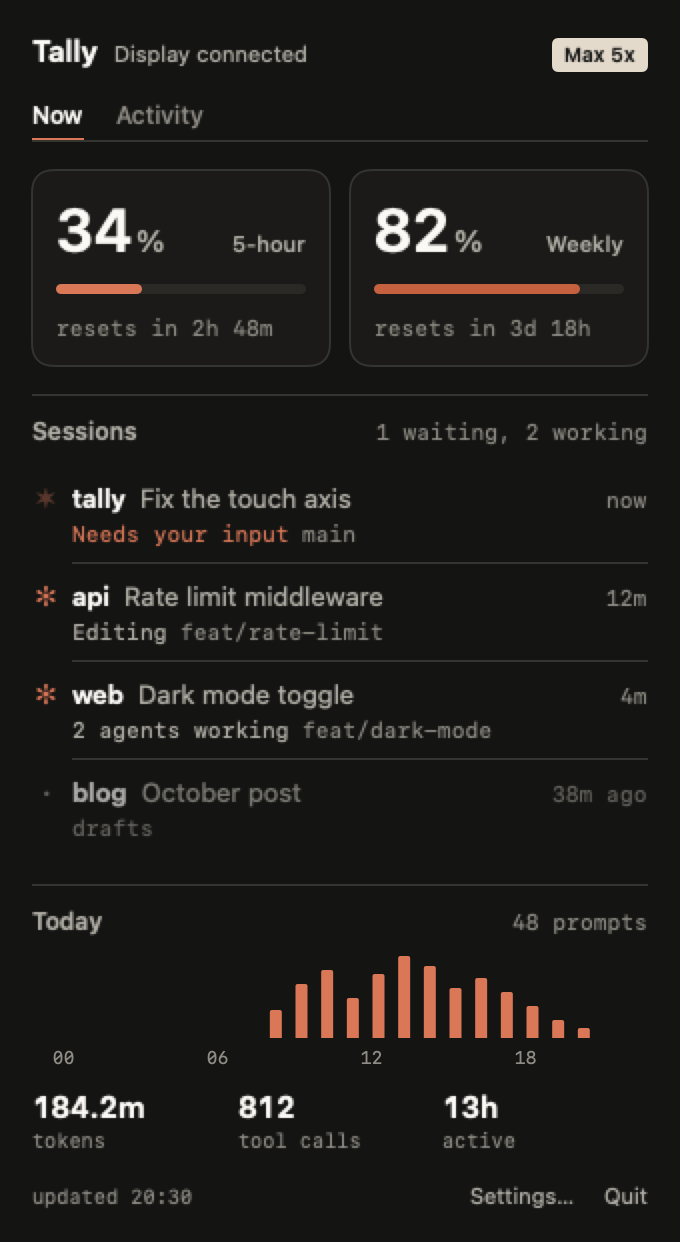
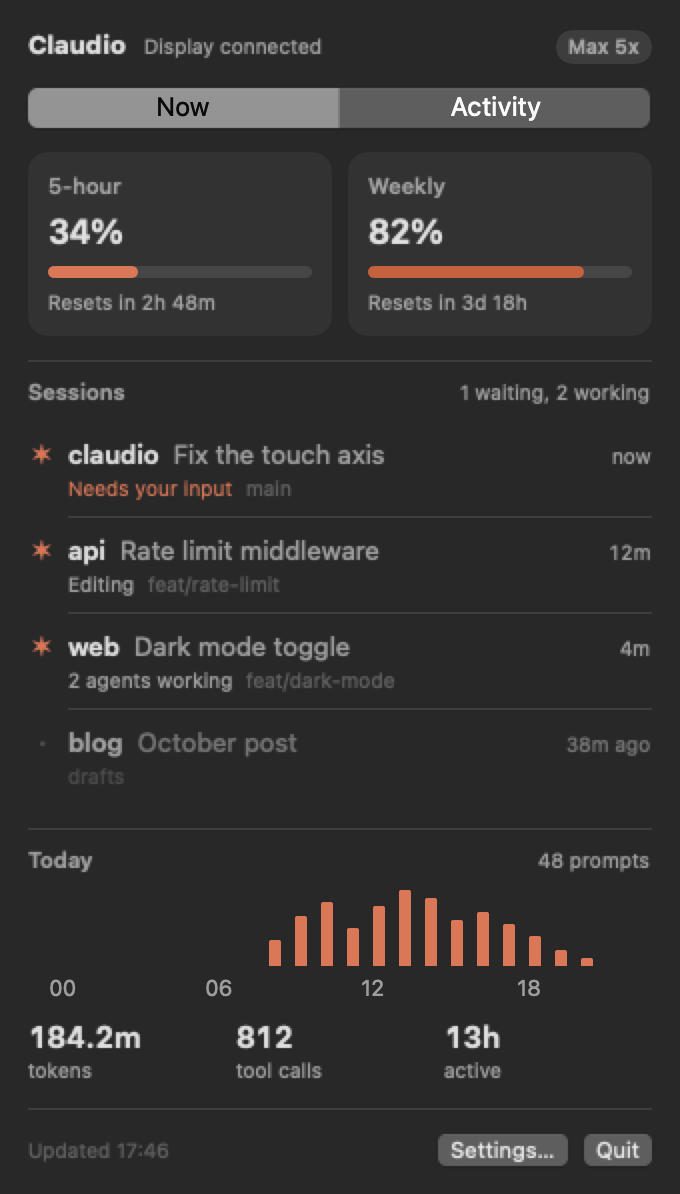
docs: reorganize the README around getting started

diff --git a/README.md b/README.md
@@ -1,118 +1,102 @@
 <div align="center">
   <img src="assets/readme/waving.gif" width="96" alt="">
   <h1>Claudio</h1>
-  <p>A desk display for <strong>Claude Code</strong>. Usage limits, every open session and what it's doing, today's activity and six months of history, on a small AMOLED next to the keyboard.</p>
+  <p>A desk display for <strong>Claude Code</strong>: usage limits, every open session and what it's doing, today's activity and six months of history, on a small AMOLED next to the keyboard.</p>
   <p><sub>Claudio is a common Brazilian name, and a joke on Claude.</sub></p>
 
+  [![release](https://img.shields.io/github/v/release/eduardoborges/claudio)](https://github.com/eduardoborges/claudio/releases/latest)
   [![last commit](https://img.shields.io/github/last-commit/eduardoborges/claudio)](https://github.com/eduardoborges/claudio/commits/main)
-  [![board](https://img.shields.io/badge/board-ESP32--S3%20AMOLED%202.16-D97757)](#hardware)
+  [![board](https://img.shields.io/badge/board-ESP32--S3%20AMOLED%202.16-D97757)](#what-you-need)
 </div>
 
 ---
 
-**[Screens](#screens)** · **[Install](#install)** · **[Hooks](#claude-code-hooks)** · **[Settings](#settings)** · **[Protocol](#ble-protocol)**
-
-> This started as a fork of [HermannBjorgvin/Clawdmeter](https://github.com/HermannBjorgvin/Clawdmeter), went by the same name, and split off before its v2. Upstream rewrote the host side as a Rust app. This one has a native Mac app, keeps the small daemons for Linux and Windows, and puts the work into what the device shows. The two projects no longer share code or releases.
+**[Quick start](#quick-start)** · **[What it shows](#what-it-shows)** · **[Settings](#settings)** · **[Linux and Windows](#linux-and-windows)** · **[How it works](#how-it-works)** · **[Development](#development)**
 
 | Sessions | Usage | Today | Stats |
 | :-: | :-: | :-: | :-: |
 | ![Sessions](screenshots/sessions.png) | ![Usage](screenshots/usage.png) | ![Today](screenshots/today.png) | ![Stats](screenshots/stats.png) |
 
-## Screens
+## What you need
 
-The device starts on Sessions. Swipe sideways or tap the left button to move between the four workspaces, and tap the screen to flip to the splash and back.
+- **The display.** A [Waveshare ESP32-S3-Touch-AMOLED-2.16](https://www.waveshare.com/esp32-s3-touch-amoled-2.16.htm), the board I build and test on. [Six more Waveshare boards](#other-boards) build too, but I haven't checked the current screens on them.
+- **A computer to feed it.** The Mac app needs macOS 14 or later on Apple silicon. Linux and Windows run a small daemon instead.
+- **Claude Code**, logged in to a paid plan.
 
-### Sessions
+## Quick start
 
-One row per open Claude Code session. The first line has the project folder and the session's title (the one Claude Code generates, or yours after `/rename`), plus how long it has been working or how long ago it finished. The second line has the git branch and what the session is doing: `Editing`, `Running`, `Searching`, `2 agents working`, or `Needs your input` in orange.
-
-Sessions that need you go on top, then the ones working, then the finished ones. A working row stays where it is until you send that session a new prompt, so the list doesn't reshuffle every time a tool runs. If there are more sessions than the screen fits, every row drops to one line and the last one reads `+3 more`. Two thin bars above the list keep the 5-hour and weekly usage in view.
-
-The list needs the [hooks](#claude-code-hooks).
-
-### Usage
-
-The 5-hour session and the weekly limit, each with the time left until it resets, and a pill with your plan. Enterprise accounts get their spend against the billing period instead.
-
-### Today
-
-Messages per hour since midnight, with prompts, tool calls, tokens, sessions, the busiest project and the number of active hours. The daemon reads the transcripts in `~/.claude/projects`, counts the main conversation only and refreshes at most once a minute.
-
-### Stats
-
-A heatmap of the last 26 weeks and six numbers under it: sessions, total tokens, active days, the longest and current streak, and your favorite model. It comes from `~/.claude/stats-cache.json`, the file behind `/stats`, so it's as fresh as Claude Code last left it.
-
-### When a session needs you
-
-<img src="screenshots/alert.png" width="240" align="right" alt="Clawd pointing at a session that needs input">
-
-When Claude Code asks a question or wants a permission, Clawd walks onto the screen, waves, points, and the message scrolls along the bottom. He leaves when you tap the screen, when the session moves on, or after two minutes. When a task that ran for at least five minutes finishes, he comes back to dance.
-
-While sessions work, the small Clawd in the corner acts out the newest one: he types on a laptop during edits and shell commands, holds a magnifier while Claude reads or searches, and rides a cloud while it thinks.
-
-The splash plays Anthropic's official Clawd animations. They get busier as your usage climbs.
-
-<br clear="right">
-
-## Hardware
-
-I built it on the [Waveshare ESP32-S3-Touch-AMOLED-2.16](https://www.waveshare.com/esp32-s3-touch-amoled-2.16.htm), a 480×480 AMOLED with touch, a battery connector and three side buttons. It's the only board I test on.
-
-The firmware also builds for these boards, but I haven't checked the current screens on them:
-
-| Board | Env |
-| --- | --- |
-| Waveshare ESP32-C6-Touch-AMOLED-2.16 | `waveshare_amoled_216_c6` |
-| Waveshare ESP32-S3-Touch-AMOLED-1.8 | `waveshare_amoled_18` |
-| Waveshare ESP32-C6-Touch-AMOLED-1.8 | `waveshare_amoled_18_c6` |
-| Waveshare ESP32-S3-Touch-AMOLED-2.06 | `waveshare_amoled_206` |
-| Waveshare ESP32-S3-Touch-LCD-1.54 | `waveshare_lcd_154` |
-| Waveshare ESP32-S3-Touch-LCD-4 | `waveshare_lcd_4` |
-
-Each board is a folder under `firmware/src/boards/` plus a PlatformIO env. [`docs/porting/adding-a-board.md`](docs/porting/adding-a-board.md) walks through adding one.
-
-## Install
-
-You need the [PlatformIO CLI](https://docs.platformio.org/en/latest/core/installation/index.html), `python3` and Claude Code logged in to a paid plan.
-
-### macOS
-
-Claudio.app lives in the menu bar and does the daemon's job: it reads the token, polls usage and keeps the display fed over Bluetooth. Click its icon for usage, sessions and today's activity, or open Settings for the options below and for flashing the firmware.
-
-<img src="screenshots/mac-now.png" width="300" alt="The menu bar panel with usage, sessions and today's activity"> <img src="screenshots/mac-activity.png" width="300" alt="The Activity tab with the 26-week heatmap">
-
-Install it with Homebrew:
+On a Mac:
 
 ```sh
 brew install --cask eduardoborges/tap/claudio
 ```
 
-Or build it from the repo with Xcode's command line tools:
+Open Claudio. A welcome guide walks you through the rest:
 
-```sh
-mac/build.sh                          # builds and signs mac/build/Claudio.app
-cp -R mac/build/Claudio.app /Applications/
-open /Applications/Claudio.app
-```
+1. **Flash** the display over USB with the latest firmware release. Flashing keeps the pairing and the display's settings.
+2. **Pair** it once in System Settings → Bluetooth (Connect next to "Claudio"), and allow Bluetooth when macOS asks.
+3. **Install the hooks** that feed sessions and alerts. Claudio adds its own to `~/.claude/settings.json`, leaves yours alone and backs up the file first.
+4. **Turn on Open at login.**
 
-Pair the display once in System Settings → Bluetooth (Connect next to "Claudio"). macOS asks for Bluetooth permission on the first launch. Then turn on Open Claudio at login in Settings. The token comes from the Keychain entry Claude Code already keeps.
+Claudio reads the token from the Keychain entry Claude Code already keeps. It lives in the menu bar: click Clawd for usage, sessions and today's activity, or open Settings for everything else, including the welcome guide again.
 
-To flash the firmware, plug the display in over USB, open Settings → Firmware, pick the board and flash the latest release or a zip from `tools/package_firmware.py`. Flashing keeps the Bluetooth pairing and the display's settings. It needs esptool, from `brew install esptool` or PlatformIO.
+<img src="screenshots/mac-now.png" width="300" alt="The menu bar panel with usage, sessions and today's activity"> <img src="screenshots/mac-activity.png" width="300" alt="The Activity tab with the 26-week heatmap">
 
 The app logs to `~/Library/Logs/Claudio.log`.
 
-#### The Python daemon instead
+## What it shows
 
-The Python daemon still works and runs from a LaunchAgent. Don't run it next to the app: both would write to the display.
+The display starts on Sessions. Swipe sideways or tap the left button to move between the four workspaces, and tap the screen to flip to the splash and back.
 
-```sh
-./flash-mac.sh waveshare_amoled_216   # finds /dev/cu.usbmodem* on its own
-./install-mac.sh                      # venv with bleak and httpx, a LaunchAgent, a few questions
-tail -F ~/Library/Logs/claude-usage-daemon.out.log
-launchctl unload -w ~/Library/LaunchAgents/com.user.claude-usage-daemon.plist   # stop for good
-```
+**Sessions.** One row per open Claude Code session: the project folder and title (Claude Code's, or yours after `/rename`), how long it has been working or how long ago it finished, the git branch, and what it's doing: `Editing`, `Running`, `Searching`, `2 agents working`, or `Needs your input` in orange. Sessions that need you go on top, then the working ones, then the finished ones. A working row stays put until you send that session a new prompt, so the list doesn't reshuffle every time a tool runs. When the rows don't fit, each drops to one line and the last reads `+3 more`. Two thin bars above the list keep the 5-hour and weekly usage in view.
 
-### Linux
+**Usage.** The 5-hour and weekly limits, each with the time left until it resets, and a pill with your plan. Enterprise accounts see their spend against the billing period.
+
+**Today.** Messages per hour since midnight, with prompts, tool calls, tokens, sessions, the busiest project and active hours. It counts the main conversation in the transcripts under `~/.claude/projects` and refreshes at most once a minute.
+
+**Stats.** A 26-week heatmap and six numbers under it: sessions, total tokens, active days, the longest and current streak, and your favorite model. It reads `~/.claude/stats-cache.json`, the file behind `/stats`, so it's as fresh as Claude Code last left it.
+
+### Clawd
+
+<img src="screenshots/alert.png" width="240" align="right" alt="Clawd pointing at a session that needs input">
+
+When Claude Code asks a question or wants a permission, Clawd walks onto the screen, waves, points, and the message scrolls along the bottom. He leaves when you tap the screen, when the session moves on, or after two minutes. When a task that ran for five minutes or more finishes, he comes back to dance.
+
+While sessions work, the small Clawd in the corner acts out the newest one: he types on a laptop during edits and shell commands, holds a magnifier while Claude reads or searches, and rides a cloud while it thinks. The splash plays Anthropic's official Clawd animations, which get busier as your usage climbs.
+
+<br clear="right">
+
+### Buttons
+
+| Button | What it does |
+| --- | --- |
+| Left (BOOT) | Tap for the next workspace. Hold to send Space, Claude Code's push to talk |
+| Middle (PWR) | On the splash, the next animation. Hold 3 seconds and let go for pairing mode |
+| Right | Shift+Tab, Claude Code's mode toggle |
+
+The keys go out as a Bluetooth keyboard, so they land in whatever window has focus. Not every board has all three buttons. To pair again, hold the power button for 3 seconds and let go: the display forgets its bond and starts advertising.
+
+## Settings
+
+On a Mac, Claudio's Settings window edits all of these. Elsewhere, edit `~/.config/claude-usage-monitor/config`; the daemon rereads it on every poll, and [`daemon/config.example`](daemon/config.example) documents each key.
+
+| Key | Default | What it does |
+| --- | --- | --- |
+| `beep` | `off` | Beep on alerts and celebrations |
+| `chime` | `off` | Chime when the 5-hour limit resets |
+| `done_after` | `5` | Minutes a task has to run to earn a celebration. `0` turns it off |
+| `clock` | `off` | Show the time in place of the workspace title: `auto`, `12` or `24` |
+| `config_dirs` | `~/.claude` | Several Claude config folders, comma separated. The display shows the one in use |
+| `poll_interval` | `60` | Seconds between usage checks. Linux only, the Mac app polls every minute |
+| `heartbeat_interval` | `60` | Seconds between replays of the last reading. Linux only |
+| `menubar_usage` | `on` | Show the 5-hour usage next to the menu bar icon. Mac app only |
+| `board` | `waveshare_amoled_216` | The board the Mac app's Firmware settings flash. Mac app only |
+
+The chime and the beep play on boards with a speaker: the S3 AMOLED-2.16 and 1.8, and the LCD-1.54.
+
+## Linux and Windows
+
+On Linux, a bash daemon does the Mac app's job. Flashing goes through the [PlatformIO CLI](https://docs.platformio.org/en/latest/core/installation/index.html):
 
 ```sh
 ./flash.sh waveshare_amoled_216      # defaults to /dev/ttyACM0
@@ -122,19 +106,16 @@ bluetoothctl pair <MAC> && bluetoothctl trust <MAC>
 systemctl --user start claude-usage-daemon
 ```
 
-The Linux daemon is a bash script. It needs BlueZ (`bluetoothctl`, `busctl`, `dbus-monitor`), `curl`, `setsid`, `stdbuf` and a systemd user session. Logs: `journalctl --user -u claude-usage-daemon -f`.
+The daemon needs BlueZ (`bluetoothctl`, `busctl`, `dbus-monitor`), `curl`, `setsid`, `stdbuf` and a systemd user session. Logs: `journalctl --user -u claude-usage-daemon -f`. Then [set up the hooks by hand](#hooks-by-hand).
 
-### Windows
+The Windows daemon shows usage only. Sessions, Today, Stats, alerts and celebrations need the Mac app or the Linux daemon. Setup is in [`daemon/README-windows.md`](daemon/README-windows.md).
 
-The Windows daemon only shows usage. Sessions, Today, Stats, alerts and celebrations need the macOS or Linux daemon. Setup is in [`daemon/README-windows.md`](daemon/README-windows.md).
+### Hooks by hand
 
-### Pairing again
+<details>
+<summary>The hooks the Mac app installs for you, for Linux and Windows</summary>
 
-Hold the power button for 3 seconds and let go. The device forgets its bond and starts advertising again.
-
-## Claude Code hooks
-
-Sessions, alerts, the corner Clawd and the celebrations all come from Claude Code hooks. Claudio.app installs them from the welcome guide or Settings → Hooks: it replaces any `attention-hook.sh` entries with its own, leaves your other hooks alone and backs up the file to `~/.config/claude-usage-monitor/claude-settings.backup.json`. The script needs `jq`, which the Homebrew cask pulls in. Without the app (Linux, Windows), merge these into `~/.claude/settings.json` and point the path at your checkout (`brew install jq` or `sudo apt install jq` if it's missing).
+Merge these into `~/.claude/settings.json` and point the path at your checkout. The script needs `jq` (`brew install jq` or `sudo apt install jq`). Claude Code picks up hook changes without a restart.
 
 ```json
 {
@@ -178,83 +159,56 @@ Sessions, alerts, the corner Clawd and the celebrations all come from Claude Cod
 | `SubagentStop` | The `2 agents working` count. Without it, a finished agent keeps counting for up to 10 minutes |
 | `SessionEnd` | Taking closed sessions off the list. Without it, they stay for up to six hours |
 
-Claude Code picks up hook changes without a restart. Each hook call records the session's folder, branch, title and last tool in `~/.config/claude-usage-monitor/sessions/`, and the daemon builds the list from those files.
+</details>
 
-## Settings
+### The Python daemon on a Mac
 
-The daemon reads `~/.config/claude-usage-monitor/config` on every poll, so edits apply within a minute. [`daemon/config.example`](daemon/config.example) has every option with comments.
+<details>
+<summary>The daemon from before the app</summary>
 
-| Key | Default | What it does |
-| --- | --- | --- |
-| `beep` | `off` | Beep on alerts and celebrations |
-| `chime` | `off` | Chime when the 5-hour limit resets |
-| `done_after` | `5` | Minutes a task has to run to earn a celebration. `0` turns it off |
-| `clock` | `off` | Show the time in place of the workspace title: `auto`, `12` or `24` |
-| `config_dirs` | `~/.claude` | Several Claude config folders, comma separated. The device shows the one in use |
-| `poll_interval` | `60` | Seconds between usage checks. Linux only, macOS polls every minute |
-| `heartbeat_interval` | `60` | Seconds between replays of the last reading. Linux only |
-| `menubar_usage` | `on` | Show the 5-hour usage next to the menu bar icon. Mac app only |
-| `board` | `waveshare_amoled_216` | The board the Mac app's Firmware settings flash. Mac app only |
+It still works and runs from a LaunchAgent. Don't run it next to the app: both would write to the display.
 
-The chime and the beep play on boards with a speaker: the S3 AMOLED-2.16 and 1.8, and the LCD-1.54.
+```sh
+./flash-mac.sh waveshare_amoled_216   # finds /dev/cu.usbmodem* on its own
+./install-mac.sh                      # venv with bleak and httpx, a LaunchAgent, a few questions
+tail -F ~/Library/Logs/claude-usage-daemon.out.log
+launchctl unload -w ~/Library/LaunchAgents/com.user.claude-usage-daemon.plist   # stop for good
+```
 
-## Buttons
+</details>
 
-| Button | What it does |
+## Other boards
+
+The firmware also builds for these boards, but I haven't checked the current screens on them:
+
+| Board | Env |
 | --- | --- |
-| Left (BOOT) | Tap for the next workspace. Hold to send Space, Claude Code's push to talk |
-| Middle (PWR) | On the splash, the next animation. Hold 3 seconds and let go for pairing mode |
-| Right | Shift+Tab, Claude Code's mode toggle |
+| Waveshare ESP32-C6-Touch-AMOLED-2.16 | `waveshare_amoled_216_c6` |
+| Waveshare ESP32-S3-Touch-AMOLED-1.8 | `waveshare_amoled_18` |
+| Waveshare ESP32-C6-Touch-AMOLED-1.8 | `waveshare_amoled_18_c6` |
+| Waveshare ESP32-S3-Touch-AMOLED-2.06 | `waveshare_amoled_206` |
+| Waveshare ESP32-S3-Touch-LCD-1.54 | `waveshare_lcd_154` |
+| Waveshare ESP32-S3-Touch-LCD-4 | `waveshare_lcd_4` |
 
-The keys go out as a Bluetooth keyboard, so they land in whatever window has focus. Not every board has all three buttons.
+Each board is a folder under `firmware/src/boards/` plus a PlatformIO env, and [`docs/porting/adding-a-board.md`](docs/porting/adding-a-board.md) walks through adding one.
 
 ## How it works
 
-1. The daemon reads your Claude Code OAuth token, from the macOS Keychain or from `~/.claude/.credentials.json`.
+1. The app or the daemon reads your Claude Code OAuth token, from the macOS Keychain or from `~/.claude/.credentials.json`.
 2. Once a minute it sends a one-token request to Haiku and reads the limits from the response headers (`anthropic-ratelimit-unified-5h-utilization` and friends).
-3. The hook script keeps one small JSON file per session, and the daemon turns those files into the Sessions list. Today and Stats come from the transcripts and from `stats-cache.json`.
-4. Everything reaches the device as JSON written to a BLE characteristic, and LVGL draws it.
-
-## BLE protocol
-
-The device exposes a data service next to the standard HID keyboard:
-
-| | UUID |
-| --- | --- |
-| Data service | `4c41555a-4465-7669-6365-000000000001` |
-| RX, write | `4c41555a-4465-7669-6365-000000000002` |
-| TX, notify | `4c41555a-4465-7669-6365-000000000003` |
-| HID service | `00001812-0000-1000-8000-00805f9b34fb` |
-
-Each write to RX is one JSON message of at most 511 bytes. A message without `k` is a usage reading and replaces the last one:
-
-```json
-{ "s": 45, "sr": 120, "w": 28, "wr": 7200, "st": "allowed", "ok": true }
-```
-
-`s` and `w` are the session and weekly percentages, `sr` and `wr` the minutes until each resets, `st` the status and `ok` whether the request worked. A reading can also carry an alert: `m` is the message (ASCII), `b` beeps once and `x` ends the alert.
-
-Messages with `k` feed the other workspaces:
-
-```json
-{ "k": "ss", "v": [["Clawdmeter | Fix the touch axis", "a", 2, "Needs your input", "main"]] }
-{ "k": "td", "h": "000000000356874565431000", "v": [["Prompts", "48"], ["Tokens", "184.2m"]] }
-{ "k": "hm", "n": 180, "h": "AAAFHFK...", "mo": [["May", 0], ["Jun", 4]] }
-{ "k": "st", "v": [["Sessions", "412"], ["Total tokens", "21.7b"]] }
-```
-
-| Kind | Fields |
-| --- | --- |
-| `ss` | Sessions. Each row is `[project \| title, state, minutes, doing, branch]`, with state `a` (needs you), `w` (working) or `d` (done). `n` counts every open session when some rows were left out to fit the 511 bytes. `a` names the corner Clawd's animation (`laptop`, `magnifier` or `cloud`). `dn` is the time a long task finished, which the device celebrates once, with a beep when `b` is set |
-| `td` | Today. `h` is messages per hour as 24 digits from 0 to 8, relative to the busiest hour, and `v` six label and value pairs |
-| `hm` | The heatmap. Week columns from the oldest Sunday, `n` valid days, `h` levels 0 to 4 packed two days per character (`'A' + 5 * first + second`), `mo` month labels by column |
-| `st` | Stats. Up to six label and value pairs, already formatted |
-
-The firmware announces `"stats":1` in its TX value, and the daemons skip the `k` messages when it's missing.
+3. The hook script keeps one small JSON file per session, and the app turns those files into the Sessions list. Today and Stats come from the transcripts and from `stats-cache.json`.
+4. Everything reaches the display as JSON written to a BLE characteristic, and LVGL draws it. [`docs/protocol.md`](docs/protocol.md) has the wire format.
 
 ## Development
 
-The Mac app is a SwiftPM package in `mac/`: `swift test` runs its tests, `Claudio --render out.png` draws the panel with made-up data, and `Claudio --dump ss` prints a message the way the daemon would send it.
+The Mac app is a SwiftPM package in `mac/`:
+
+```sh
+mac/build.sh                    # builds and signs mac/build/Claudio.app; --dmg also packages it
+swift test --package-path mac
+```
+
+`Claudio --render out.png` draws the panel with made-up data, `--welcome` opens the welcome guide on its own, and `--dump ss` prints a message the way the app builds it.
 
 The simulator runs the whole firmware in an SDL window and plays daemon messages from `firmware/sim/scenario.jsonl`, so most UI work happens without the board:
 
@@ -262,11 +216,15 @@ The simulator runs the whole firmware in an SDL window and plays daemon messages
 pio run -d firmware -e sim && (cd firmware && .pio/build/sim/program)
 ```
 
-[`SIM-USAGE.md`](SIM-USAGE.md) has the controls and headless screenshots. On the real board, `./screenshot.sh out.png` dumps the framebuffer over USB. The daemon tests run with `python -m pytest daemon/tests -q`.
+[`SIM-USAGE.md`](SIM-USAGE.md) has the controls and headless screenshots. On a real board, `./screenshot.sh out.png` dumps the framebuffer over USB. The daemon tests run with `python -m pytest daemon/tests -q`.
 
-Colors, type and shapes follow Anthropic's design system, mapped in [`docs/design-system.md`](docs/design-system.md). The fonts and the patching LVGL 9 needs are in [`docs/fonts.md`](docs/fonts.md), and [`tools/README.md`](tools/README.md) covers converting the Clawd sprites and the Lucide icons.
+Colors, type and shapes follow Anthropic's design system, mapped in [`docs/design-system.md`](docs/design-system.md). [`docs/fonts.md`](docs/fonts.md) covers the fonts and the patching LVGL 9 needs, and [`tools/README.md`](tools/README.md) covers converting the Clawd sprites and the Lucide icons.
+
+Releases come from release-please: conventional commits on `main` build a release PR, and merging it publishes the signed and notarized dmg plus one firmware zip per board.
 
 ## Credits
+
+This started as a fork of [HermannBjorgvin/Clawdmeter](https://github.com/HermannBjorgvin/Clawdmeter), went by the same name, and split off before its v2. Upstream rewrote the host side as a Rust app. This one has a native Mac app, keeps the small daemons for Linux and Windows, and puts the work into what the display shows. The two projects no longer share code or releases.
 
 - [Hermann Björgvin](https://github.com/HermannBjorgvin) wrote the original Clawdmeter, and [Chris Davidson](https://github.com/lorddavidson) ported its host side to macOS.
 - The Clawd animations are Anthropic's official mascot art, archived with notes in [`research/clawd-official/`](research/clawd-official/).
